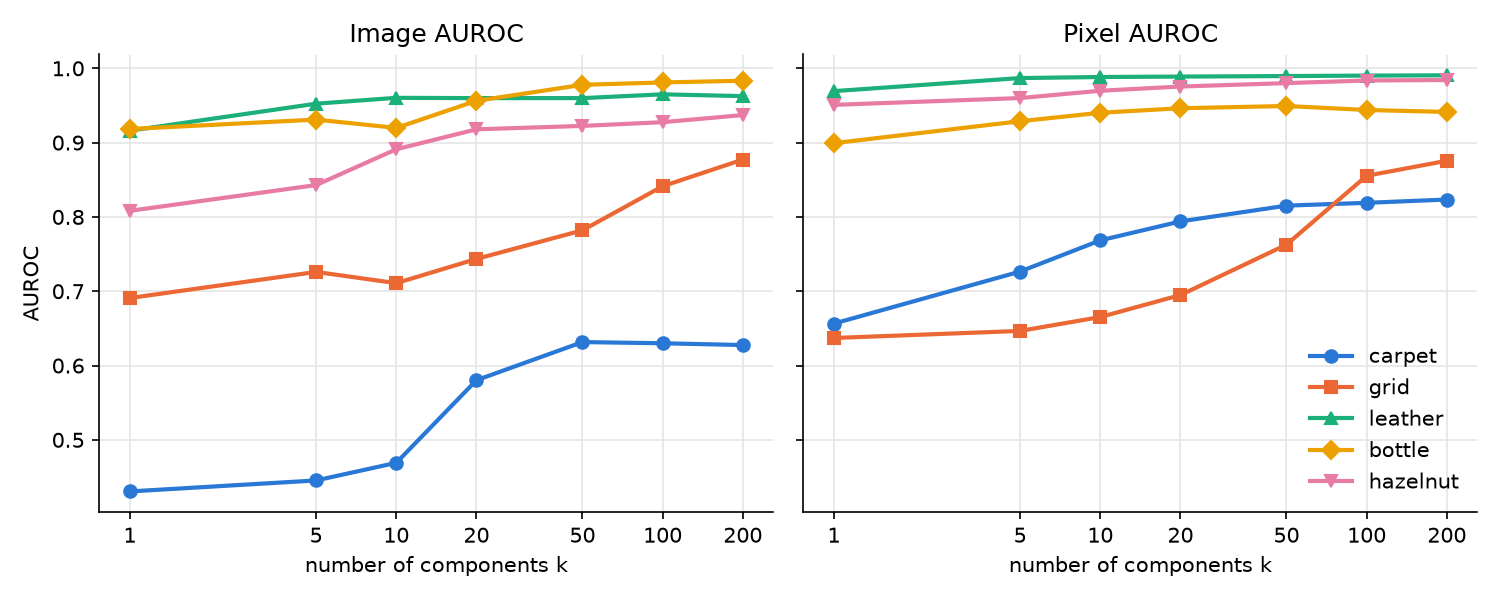
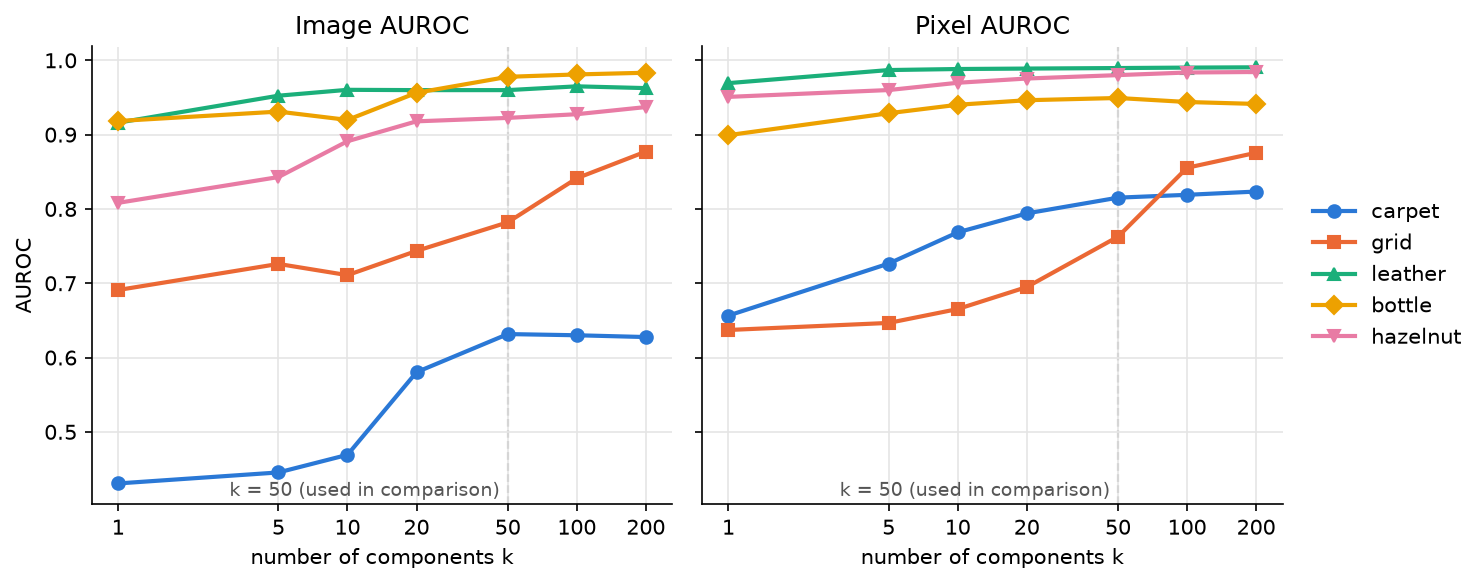
pca: fix k=50 for the method comparison; start report notes
Mark the chosen k in the sweep figure (--main-k, default 50), chosen
before comparing methods rather than tuned on test data. Move the
legend outside the axes. Add docs/report_notes.md with setup
decisions, PCA results at k=50 and talking points for the slides.

diff --git a/src/anomaly/viz.py b/src/anomaly/viz.py
@@ -15,10 +15,12 @@ MARKERS = ["o", "s", "^", "D", "v", "P", "X"]  # second cue besides colour
 TITLES = {"image_auroc": "Image AUROC", "pixel_auroc": "Pixel AUROC"}
 
 
-def plot_metric_sweep(rows, param, metrics, path, log_x=False, xlabel=None):
+def plot_metric_sweep(rows, param, metrics, path, log_x=False, xlabel=None,
+                      mark_x=None, mark_label=None):
     """One panel per metric, one line per category, `param` on the x-axis.
 
     rows: list of dicts, each with keys "category", param and every metric.
+    mark_x: optional x value to highlight with a dashed line (e.g. the chosen k).
     """
     categories = list(dict.fromkeys(r["category"] for r in rows))  # keep order, drop repeats
     fig, axes = plt.subplots(1, len(metrics), figsize=(5 * len(metrics), 4),
@@ -34,12 +36,19 @@ def plot_metric_sweep(rows, param, metrics, path, log_x=False, xlabel=None):
             ticks = sorted({r[param] for r in rows})
             ax.set_xticks(ticks, [str(t) for t in ticks])  # label the swept values, not powers of 10
             ax.minorticks_off()
+        if mark_x is not None:
+            ax.axvline(mark_x, color="#888888", linestyle="--", linewidth=1, zorder=0)
+            if mark_label:
+                ax.annotate(mark_label, (mark_x, 0), xycoords=("data", "axes fraction"),
+                            xytext=(-4, 4), textcoords="offset points", ha="right",
+                            color="#555555", fontsize=9)
         ax.set_title(TITLES.get(metric, metric))
         ax.set_xlabel(xlabel or param)
         ax.grid(True, color="#e5e5e5", linewidth=0.8)
         ax.spines[["top", "right"]].set_visible(False)
     axes[0, 0].set_ylabel("AUROC")
-    axes[0, -1].legend(frameon=False, loc="lower right")
+    # legend outside the plot area so it can never cover a line
+    axes[0, -1].legend(frameon=False, loc="center left", bbox_to_anchor=(1.02, 0.5))
     fig.tight_layout()
-    fig.savefig(path, dpi=150)
+    fig.savefig(path, dpi=150, bbox_inches="tight")
     plt.close(fig)

diff --git a/scripts/run_pca.py b/scripts/run_pca.py
@@ -26,6 +26,8 @@ def parse_args():
     p = argparse.ArgumentParser(description=__doc__, formatter_class=argparse.RawDescriptionHelpFormatter)
     p.add_argument("--categories", nargs="+", default=["carpet", "grid", "leather", "bottle", "hazelnut"])
     p.add_argument("--ks", nargs="+", type=int, default=[1, 5, 10, 20, 50, 100, 200])
+    p.add_argument("--main-k", type=int, default=50,
+                   help="k used in the method comparison; fixed before comparing methods, not tuned on test")
     p.add_argument("--size", type=int, default=128, help="image side length in pixels")
     p.add_argument("--sigma", type=float, default=2.0, help="Gaussian smoothing of the map, in pixels")
     p.add_argument("--seed", type=int, default=0)
@@ -78,7 +80,8 @@ def main():
         writer.writerows(rows)
     args.fig.parent.mkdir(parents=True, exist_ok=True)
     plot_metric_sweep(rows, "k", ["image_auroc", "pixel_auroc"], args.fig,
-                      log_x=True, xlabel="number of components k")
+                      log_x=True, xlabel="number of components k",
+                      mark_x=args.main_k, mark_label=f"k = {args.main_k} (used in comparison)")
     print(f"wrote {args.out} and {args.fig}")
 
 

diff --git a/docs/report_notes.md b/docs/report_notes.md
@@ -1,0 +1,49 @@
+# Report and slide notes
+
+Running log of decisions, results and talking points, written as each step is done.
+Numbers are copied from `results/`; if a CSV is regenerated, update them here.
+
+## Setup decisions
+- **Image loading** (`src/anomaly/data.py`): grayscale categories copied to 3 channels; downsampling with
+  `INTER_AREA` (box low-pass before sampling, avoids aliasing at 1024 -> 224/128); masks resized with
+  nearest neighbour so they stay binary; good test images get an all-zero mask.
+- **ImageNet normalisation**: mean (0.485, 0.456, 0.406), std (0.229, 0.224, 0.225). Verified against
+  `torchvision ResNet18_Weights.IMAGENET1K_V1.transforms()`, which also confirms resize 256 -> crop 224
+  (the PaDiM paper setting).
+- **Metrics**: image AUROC (one score per image) and pixel AUROC (all test pixels pooled, including
+  pixels of good images). Convention: higher score = more anomalous. AUROC depends only on the ranking
+  of scores, so monotone transforms (sqrt, log) do not change it; smoothing and max-pooling do.
+- **Caveat for slides**: defect pixels are only ~1-6% of all pixels, so pixel AUROC can look
+  optimistic (huge FPR denominator). PRO / precision-based metrics are the usual complement.
+
+## PCA baseline (Step 3)
+- Method: flatten image, subtract mean image, top-k eigen-images via thin SVD of the centred data
+  matrix (rows of V^T = covariance eigenvectors, eigenvalues S^2/(N-1)); never builds the D x D
+  covariance (D = 49,152 at 128 px: ~10 GB). Reconstruction x_hat = mu + C^T C (x - mu).
+  Map = |x - x_hat| averaged over RGB, Gaussian sigma = 2 px (about sigma = 4 at 224); score = max of map.
+- Settings: 128 x 128, sigma = 2. Script: `scripts/run_pca.py` -> `results/pca.csv`,
+  `results/figures/pca_k.png`.
+- **Decision: k = 50 for all categories in the method comparison.** Fixed before comparing methods and
+  not tuned per category on test data (that would inflate PCA). The k sweep is reported as an ablation.
+
+### Results at k = 50 (main comparison numbers)
+| category | image AUROC | pixel AUROC | explained var |
+|---|---|---|---|
+| carpet | 0.632 | 0.815 | 0.553 |
+| grid | 0.782 | 0.763 | 0.680 |
+| leather | 0.960 | 0.990 | 0.667 |
+| bottle | 0.978 | 0.949 | 0.878 |
+| hazelnut | 0.923 | 0.980 | 0.832 |
+| **mean** | **0.855** | **0.899** | |
+
+Fit 3-5 s per category (CPU), inference ~1 ms per image.
+
+### Talking points (k ablation)
+- Works on aligned objects and smooth textures (bottle, leather, hazelnut). Fails on random texture
+  (carpet): the first eigen-image explains only 4.6% of variance; a shift of the weave by a pixel
+  decorrelates pixels, so no low-dimensional pixel subspace exists. Carpet image AUROC < 0.5 for k <= 10.
+- Bias/variance trade-off in k: too few components leave normal variation in the residual (false
+  alarms); too many let the subspace reconstruct the defect too. Seen in bottle pixel AUROC:
+  0.949 at k = 50 -> 0.941 at k = 200, where 99.8% of training variance is explained.
+- Grid still improving at k = 200: regular pattern with small shifts needs many components.
+- Motivation for PaDiM: model local deep features per patch instead of whole-image pixels.
